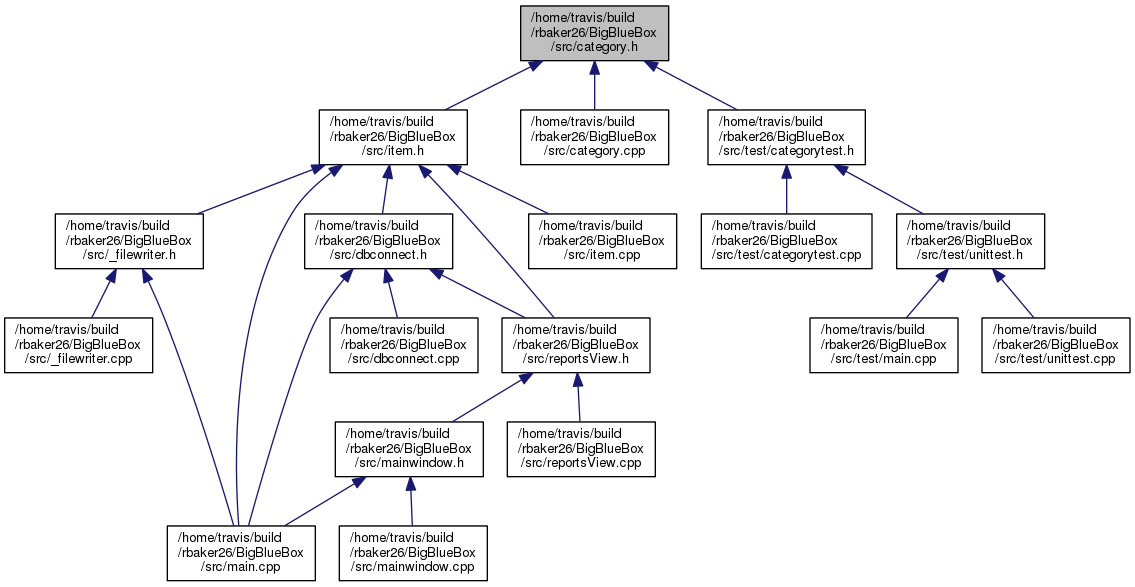
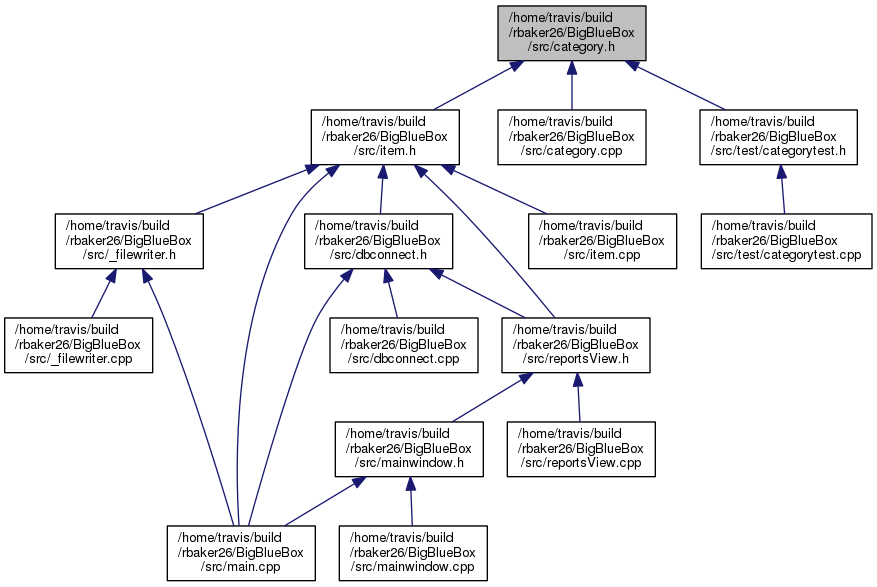
Deploy code docs to GitHub Pages Travis build: 153
Commit: c6dd132dcff6cf2a4d43fa147a59e868d3e412c9

diff --git a/html/unittest_8h_source.html b/html/unittest_8h_source.html
@@ -105,33 +105,31 @@ var searchBox = new SearchBox("searchBox", "search",false,'Search');
 <div class="line"><a name="l00014"></a><span class="lineno">   14</span>&#160;<span class="comment">//#include &quot;sqltest.h&quot;</span></div>
 <div class="line"><a name="l00015"></a><span class="lineno">   15</span>&#160;</div>
 <div class="line"><a name="l00016"></a><span class="lineno">   16</span>&#160;<span class="preprocessor">#include &quot;<a class="code" href="__regextest_8h.html">test/_regextest.h</a>&quot;</span></div>
-<div class="line"><a name="l00017"></a><span class="lineno">   17</span>&#160;<span class="preprocessor">#include &quot;<a class="code" href="categorytest_8h.html">test/categorytest.h</a>&quot;</span></div>
-<div class="line"><a name="l00018"></a><span class="lineno">   18</span>&#160;</div>
-<div class="line"><a name="l00019"></a><span class="lineno">   19</span>&#160;<span class="keyword">namespace </span>bbbTest {</div>
-<div class="line"><a name="l00020"></a><span class="lineno">   20</span>&#160;<span class="comment">/***********************************************************************************/</span></div>
-<div class="line"><a name="l00027"></a><span class="lineno">   27</span>&#160;<span class="comment">/***********************************************************************************/</span></div>
-<div class="line"><a name="l00028"></a><span class="lineno"><a class="line" href="classbbb_test_1_1_unit_test.html">   28</a></span>&#160;<span class="keyword">class </span><a class="code" href="classbbb_test_1_1_unit_test.html">UnitTest</a> : <span class="keyword">public</span> QObject</div>
-<div class="line"><a name="l00029"></a><span class="lineno">   29</span>&#160;{   Q_OBJECT</div>
-<div class="line"><a name="l00030"></a><span class="lineno">   30</span>&#160;<span class="keyword">public</span>:</div>
-<div class="line"><a name="l00031"></a><span class="lineno">   31</span>&#160;    <span class="comment">/***********************************************************************************/</span></div>
-<div class="line"><a name="l00034"></a><span class="lineno">   34</span>&#160;    <a class="code" href="classbbb_test_1_1_unit_test.html#a67ddaff817b55a624741d32550052f4b">UnitTest</a>();</div>
-<div class="line"><a name="l00035"></a><span class="lineno">   35</span>&#160;    <span class="comment">//***********************************************************************************/</span></div>
+<div class="line"><a name="l00017"></a><span class="lineno">   17</span>&#160;</div>
+<div class="line"><a name="l00018"></a><span class="lineno">   18</span>&#160;<span class="keyword">namespace </span>bbbTest {</div>
+<div class="line"><a name="l00019"></a><span class="lineno">   19</span>&#160;<span class="comment">/***********************************************************************************/</span></div>
+<div class="line"><a name="l00026"></a><span class="lineno">   26</span>&#160;<span class="comment">/***********************************************************************************/</span></div>
+<div class="line"><a name="l00027"></a><span class="lineno"><a class="line" href="classbbb_test_1_1_unit_test.html">   27</a></span>&#160;<span class="keyword">class </span><a class="code" href="classbbb_test_1_1_unit_test.html">UnitTest</a> : <span class="keyword">public</span> QObject</div>
+<div class="line"><a name="l00028"></a><span class="lineno">   28</span>&#160;{   Q_OBJECT</div>
+<div class="line"><a name="l00029"></a><span class="lineno">   29</span>&#160;<span class="keyword">public</span>:</div>
+<div class="line"><a name="l00030"></a><span class="lineno">   30</span>&#160;    <span class="comment">/***********************************************************************************/</span></div>
+<div class="line"><a name="l00033"></a><span class="lineno">   33</span>&#160;    <a class="code" href="classbbb_test_1_1_unit_test.html#a67ddaff817b55a624741d32550052f4b">UnitTest</a>();</div>
+<div class="line"><a name="l00034"></a><span class="lineno">   34</span>&#160;    <span class="comment">//***********************************************************************************/</span></div>
+<div class="line"><a name="l00035"></a><span class="lineno">   35</span>&#160;</div>
 <div class="line"><a name="l00036"></a><span class="lineno">   36</span>&#160;</div>
-<div class="line"><a name="l00037"></a><span class="lineno">   37</span>&#160;</div>
-<div class="line"><a name="l00038"></a><span class="lineno">   38</span>&#160;    <span class="comment">/***********************************************************************************/</span></div>
-<div class="line"><a name="l00042"></a><span class="lineno">   42</span>&#160;    <span class="keyword">static</span> <span class="keywordtype">void</span> <a class="code" href="classbbb_test_1_1_unit_test.html#ab007b0ca0f5cf3f165305e71d67b20c0">run</a>();</div>
-<div class="line"><a name="l00043"></a><span class="lineno">   43</span>&#160;    <span class="comment">/***********************************************************************************/</span></div>
-<div class="line"><a name="l00044"></a><span class="lineno">   44</span>&#160;</div>
-<div class="line"><a name="l00045"></a><span class="lineno">   45</span>&#160;}; <span class="comment">// end class</span></div>
-<div class="line"><a name="l00046"></a><span class="lineno">   46</span>&#160;<span class="comment">/***********************************************************************************/</span></div>
-<div class="line"><a name="l00047"></a><span class="lineno">   47</span>&#160;</div>
-<div class="line"><a name="l00048"></a><span class="lineno">   48</span>&#160;} <span class="comment">// end namespace</span></div>
-<div class="line"><a name="l00049"></a><span class="lineno">   49</span>&#160;<span class="preprocessor">#endif // UNITTEST_H</span></div>
-<div class="ttc" id="classbbb_test_1_1_unit_test_html"><div class="ttname"><a href="classbbb_test_1_1_unit_test.html">bbbTest::UnitTest</a></div><div class="ttdoc">Starts the regression an unit testing. </div><div class="ttdef"><b>Definition:</b> unittest.h:28</div></div>
+<div class="line"><a name="l00037"></a><span class="lineno">   37</span>&#160;    <span class="comment">/***********************************************************************************/</span></div>
+<div class="line"><a name="l00041"></a><span class="lineno">   41</span>&#160;    <span class="keyword">static</span> <span class="keywordtype">void</span> <a class="code" href="classbbb_test_1_1_unit_test.html#ab007b0ca0f5cf3f165305e71d67b20c0">run</a>();</div>
+<div class="line"><a name="l00042"></a><span class="lineno">   42</span>&#160;    <span class="comment">/***********************************************************************************/</span></div>
+<div class="line"><a name="l00043"></a><span class="lineno">   43</span>&#160;</div>
+<div class="line"><a name="l00044"></a><span class="lineno">   44</span>&#160;}; <span class="comment">// end class</span></div>
+<div class="line"><a name="l00045"></a><span class="lineno">   45</span>&#160;<span class="comment">/***********************************************************************************/</span></div>
+<div class="line"><a name="l00046"></a><span class="lineno">   46</span>&#160;</div>
+<div class="line"><a name="l00047"></a><span class="lineno">   47</span>&#160;} <span class="comment">// end namespace</span></div>
+<div class="line"><a name="l00048"></a><span class="lineno">   48</span>&#160;<span class="preprocessor">#endif // UNITTEST_H</span></div>
+<div class="ttc" id="classbbb_test_1_1_unit_test_html"><div class="ttname"><a href="classbbb_test_1_1_unit_test.html">bbbTest::UnitTest</a></div><div class="ttdoc">Starts the regression an unit testing. </div><div class="ttdef"><b>Definition:</b> unittest.h:27</div></div>
 <div class="ttc" id="classbbb_test_1_1_unit_test_html_a67ddaff817b55a624741d32550052f4b"><div class="ttname"><a href="classbbb_test_1_1_unit_test.html#a67ddaff817b55a624741d32550052f4b">bbbTest::UnitTest::UnitTest</a></div><div class="ttdeci">UnitTest()</div><div class="ttdoc">Constructor. </div><div class="ttdef"><b>Definition:</b> unittest.cpp:5</div></div>
 <div class="ttc" id="__regextest_8h_html"><div class="ttname"><a href="__regextest_8h.html">_regextest.h</a></div></div>
 <div class="ttc" id="classbbb_test_1_1_unit_test_html_ab007b0ca0f5cf3f165305e71d67b20c0"><div class="ttname"><a href="classbbb_test_1_1_unit_test.html#ab007b0ca0f5cf3f165305e71d67b20c0">bbbTest::UnitTest::run</a></div><div class="ttdeci">static void run()</div><div class="ttdoc">Static fx, calls all unit test objects and executes them. </div><div class="ttdef"><b>Definition:</b> unittest.cpp:7</div></div>
-<div class="ttc" id="categorytest_8h_html"><div class="ttname"><a href="categorytest_8h.html">categorytest.h</a></div></div>
 </div><!-- fragment --></div><!-- contents -->
 <!-- start footer part -->
 <hr class="footer"/><address class="footer"><small>

diff --git a/html/category_8h.html b/html/category_8h.html
@@ -106,7 +106,7 @@ This graph shows which files directly or indirectly include this file:</div>
 <div class="dyncontent">
 <div class="center"><img src="category_8h__dep__incl.png" border="0" usemap="#_2home_2travis_2build_2rbaker26_2_big_blue_box_2src_2category_8hdep" alt=""/></div>
 <map name="_2home_2travis_2build_2rbaker26_2_big_blue_box_2src_2category_8hdep" id="_2home_2travis_2build_2rbaker26_2_big_blue_box_2src_2category_8hdep">
-<area shape="rect" id="node2" href="item_8h.html" title="/home/travis/build\l/rbaker26/BigBlueBox\l/src/item.h" alt="" coords="319,109,467,165"/><area shape="rect" id="node13" href="category_8cpp.html" title="/home/travis/build\l/rbaker26/BigBlueBox\l/src/category.cpp" alt="" coords="521,109,668,165"/><area shape="rect" id="node14" href="categorytest_8h.html" title="/home/travis/build\l/rbaker26/BigBlueBox\l/src/test/categorytest.h" alt="" coords="708,109,865,165"/><area shape="rect" id="node3" href="__filewriter_8h.html" title="/home/travis/build\l/rbaker26/BigBlueBox\l/src/_filewriter.h" alt="" coords="55,213,203,269"/><area shape="rect" id="node5" href="main_8cpp.html" title="/home/travis/build\l/rbaker26/BigBlueBox\l/src/main.cpp" alt="" coords="167,525,315,581"/><area shape="rect" id="node6" href="dbconnect_8h.html" title="/home/travis/build\l/rbaker26/BigBlueBox\l/src/dbconnect.h" alt="" coords="305,213,452,269"/><area shape="rect" id="node8" href="reports_view_8h.html" title="/home/travis/build\l/rbaker26/BigBlueBox\l/src/reportsView.h" alt="" coords="502,317,649,373"/><area shape="rect" id="node12" href="item_8cpp.html" title="/home/travis/build\l/rbaker26/BigBlueBox\l/src/item.cpp" alt="" coords="529,213,676,269"/><area shape="rect" id="node4" href="__filewriter_8cpp.html" title="/home/travis/build\l/rbaker26/BigBlueBox\l/src/_filewriter.cpp" alt="" coords="5,317,152,373"/><area shape="rect" id="node7" href="dbconnect_8cpp.html" title="/home/travis/build\l/rbaker26/BigBlueBox\l/src/dbconnect.cpp" alt="" coords="330,317,477,373"/><area shape="rect" id="node9" href="mainwindow_8h.html" title="/home/travis/build\l/rbaker26/BigBlueBox\l/src/mainwindow.h" alt="" coords="335,421,483,477"/><area shape="rect" id="node11" href="reports_view_8cpp.html" title="/home/travis/build\l/rbaker26/BigBlueBox\l/src/reportsView.cpp" alt="" coords="507,421,655,477"/><area shape="rect" id="node10" href="mainwindow_8cpp.html" title="/home/travis/build\l/rbaker26/BigBlueBox\l/src/mainwindow.cpp" alt="" coords="339,525,487,581"/><area shape="rect" id="node15" href="categorytest_8cpp.html" title="/home/travis/build\l/rbaker26/BigBlueBox\l/src/test/categorytest.cpp" alt="" coords="701,213,872,269"/><area shape="rect" id="node16" href="unittest_8h.html" title="/home/travis/build\l/rbaker26/BigBlueBox\l/src/test/unittest.h" alt="" coords="897,213,1044,269"/><area shape="rect" id="node17" href="test_2main_8cpp.html" title="/home/travis/build\l/rbaker26/BigBlueBox\l/src/test/main.cpp" alt="" coords="810,317,957,373"/><area shape="rect" id="node18" href="unittest_8cpp.html" title="/home/travis/build\l/rbaker26/BigBlueBox\l/src/test/unittest.cpp" alt="" coords="982,317,1129,373"/></map>
+<area shape="rect" id="node2" href="item_8h.html" title="/home/travis/build\l/rbaker26/BigBlueBox\l/src/item.h" alt="" coords="311,109,459,165"/><area shape="rect" id="node13" href="category_8cpp.html" title="/home/travis/build\l/rbaker26/BigBlueBox\l/src/category.cpp" alt="" coords="498,109,645,165"/><area shape="rect" id="node14" href="categorytest_8h.html" title="/home/travis/build\l/rbaker26/BigBlueBox\l/src/test/categorytest.h" alt="" coords="700,109,857,165"/><area shape="rect" id="node3" href="__filewriter_8h.html" title="/home/travis/build\l/rbaker26/BigBlueBox\l/src/_filewriter.h" alt="" coords="55,213,203,269"/><area shape="rect" id="node5" href="main_8cpp.html" title="/home/travis/build\l/rbaker26/BigBlueBox\l/src/main.cpp" alt="" coords="167,525,315,581"/><area shape="rect" id="node6" href="dbconnect_8h.html" title="/home/travis/build\l/rbaker26/BigBlueBox\l/src/dbconnect.h" alt="" coords="305,213,452,269"/><area shape="rect" id="node8" href="reports_view_8h.html" title="/home/travis/build\l/rbaker26/BigBlueBox\l/src/reportsView.h" alt="" coords="502,317,649,373"/><area shape="rect" id="node12" href="item_8cpp.html" title="/home/travis/build\l/rbaker26/BigBlueBox\l/src/item.cpp" alt="" coords="529,213,676,269"/><area shape="rect" id="node4" href="__filewriter_8cpp.html" title="/home/travis/build\l/rbaker26/BigBlueBox\l/src/_filewriter.cpp" alt="" coords="5,317,152,373"/><area shape="rect" id="node7" href="dbconnect_8cpp.html" title="/home/travis/build\l/rbaker26/BigBlueBox\l/src/dbconnect.cpp" alt="" coords="330,317,477,373"/><area shape="rect" id="node9" href="mainwindow_8h.html" title="/home/travis/build\l/rbaker26/BigBlueBox\l/src/mainwindow.h" alt="" coords="335,421,483,477"/><area shape="rect" id="node11" href="reports_view_8cpp.html" title="/home/travis/build\l/rbaker26/BigBlueBox\l/src/reportsView.cpp" alt="" coords="507,421,655,477"/><area shape="rect" id="node10" href="mainwindow_8cpp.html" title="/home/travis/build\l/rbaker26/BigBlueBox\l/src/mainwindow.cpp" alt="" coords="339,525,487,581"/><area shape="rect" id="node15" href="categorytest_8cpp.html" title="/home/travis/build\l/rbaker26/BigBlueBox\l/src/test/categorytest.cpp" alt="" coords="701,213,872,269"/></map>
 </div>
 </div>
 <p><a href="category_8h_source.html">Go to the source code of this file.</a></p>

diff --git a/html/categorytest_8h_source.html b/html/categorytest_8h_source.html
@@ -127,7 +127,7 @@ var searchBox = new SearchBox("searchBox", "search",false,'Search');
 <div class="ttc" id="classbbb_test_1_1_category_test_html_a85e76fad3ded73c068e9f5f0e5666a92"><div class="ttname"><a href="classbbb_test_1_1_category_test.html#a85e76fad3ded73c068e9f5f0e5666a92">bbbTest::CategoryTest::CategoryTest</a></div><div class="ttdeci">CategoryTest()</div><div class="ttdoc">Default Constructor. </div><div class="ttdef"><b>Definition:</b> categorytest.cpp:5</div></div>
 <div class="ttc" id="classbbb_test_1_1_category_test_html"><div class="ttname"><a href="classbbb_test_1_1_category_test.html">bbbTest::CategoryTest</a></div><div class="ttdef"><b>Definition:</b> categorytest.h:12</div></div>
 <div class="ttc" id="classbbb_test_1_1_category_test_html_a3d00e8ff136a5e5cc92ab6fde7829113"><div class="ttname"><a href="classbbb_test_1_1_category_test.html#a3d00e8ff136a5e5cc92ab6fde7829113">bbbTest::CategoryTest::testTest</a></div><div class="ttdeci">void testTest()</div><div class="ttdoc">Makes sure QTest, .yml an travis.ci are working. </div><div class="ttdef"><b>Definition:</b> categorytest.cpp:12</div></div>
-<div class="ttc" id="classbbb_test_1_1_category_test_html_a6b8e930731c0cb0b55bad0aa70c2100b"><div class="ttname"><a href="classbbb_test_1_1_category_test.html#a6b8e930731c0cb0b55bad0aa70c2100b">bbbTest::CategoryTest::testCatEnumVals</a></div><div class="ttdeci">void testCatEnumVals()</div><div class="ttdoc">Tests the int values of the enums. </div><div class="ttdef"><b>Definition:</b> categorytest.cpp:27</div></div>
+<div class="ttc" id="classbbb_test_1_1_category_test_html_a6b8e930731c0cb0b55bad0aa70c2100b"><div class="ttname"><a href="classbbb_test_1_1_category_test.html#a6b8e930731c0cb0b55bad0aa70c2100b">bbbTest::CategoryTest::testCatEnumVals</a></div><div class="ttdeci">void testCatEnumVals()</div><div class="ttdoc">Tests the values of the enums. </div><div class="ttdef"><b>Definition:</b> categorytest.cpp:27</div></div>
 </div><!-- fragment --></div><!-- contents -->
 <!-- start footer part -->
 <hr class="footer"/><address class="footer"><small>

diff --git a/html/unittest_8h.html b/html/unittest_8h.html
@@ -96,13 +96,12 @@ var searchBox = new SearchBox("searchBox", "search",false,'Search');
 <code>#include &lt;QtTest&gt;</code><br/>
 <code>#include &lt;QString&gt;</code><br/>
 <code>#include &quot;<a class="el" href="__regextest_8h_source.html">test/_regextest.h</a>&quot;</code><br/>
-<code>#include &quot;<a class="el" href="categorytest_8h_source.html">test/categorytest.h</a>&quot;</code><br/>
 </div><div class="textblock"><div class="dynheader">
 Include dependency graph for unittest.h:</div>
 <div class="dyncontent">
 <div class="center"><img src="unittest_8h__incl.png" border="0" usemap="#_2home_2travis_2build_2rbaker26_2_big_blue_box_2src_2test_2unittest_8h" alt=""/></div>
 <map name="_2home_2travis_2build_2rbaker26_2_big_blue_box_2src_2test_2unittest_8h" id="_2home_2travis_2build_2rbaker26_2_big_blue_box_2src_2test_2unittest_8h">
-<area shape="rect" id="node5" href="__regextest_8h.html" title="test/_regextest.h" alt="" coords="89,109,209,136"/><area shape="rect" id="node8" href="categorytest_8h.html" title="test/categorytest.h" alt="" coords="335,109,464,136"/><area shape="rect" id="node6" href="__regex_8h.html" title="_regex.h" alt="" coords="40,184,112,211"/><area shape="rect" id="node9" href="category_8h.html" title="category.h" alt="" coords="420,184,501,211"/></map>
+<area shape="rect" id="node5" href="__regextest_8h.html" title="test/_regextest.h" alt="" coords="121,109,241,136"/><area shape="rect" id="node6" href="__regex_8h.html" title="_regex.h" alt="" coords="100,184,172,211"/></map>
 </div>
 </div><div class="textblock"><div class="dynheader">
 This graph shows which files directly or indirectly include this file:</div>

diff --git a/html/qrc__rec_8cpp.html b/html/qrc__rec_8cpp.html
@@ -308,14 +308,14 @@ Here is the caller graph for this function:</div>
 <div class="line">  0x0,0x6d,0x0,0x67,</div>
 <div class="line">    </div>
 <div class="line">  0x0,0xc,</div>
-<div class="line">  0x8,0xa1,0x26,0xa7,</div>
-<div class="line">  0x0,0x6e,</div>
-<div class="line">  0x0,0x79,0x0,0x6c,0x0,0x74,0x0,0x49,0x0,0x63,0x0,0x6f,0x0,0x6e,0x0,0x2e,0x0,0x70,0x0,0x6e,0x0,0x67,</div>
-<div class="line">    </div>
-<div class="line">  0x0,0xc,</div>
 <div class="line">  0x8,0xa1,0x20,0x87,</div>
 <div class="line">  0x0,0x6e,</div>
 <div class="line">  0x0,0x79,0x0,0x6c,0x0,0x74,0x0,0x49,0x0,0x63,0x0,0x6f,0x0,0x6e,0x0,0x2e,0x0,0x6a,0x0,0x70,0x0,0x67,</div>
+<div class="line">    </div>
+<div class="line">  0x0,0xc,</div>
+<div class="line">  0x8,0xa1,0x26,0xa7,</div>
+<div class="line">  0x0,0x6e,</div>
+<div class="line">  0x0,0x79,0x0,0x6c,0x0,0x74,0x0,0x49,0x0,0x63,0x0,0x6f,0x0,0x6e,0x0,0x2e,0x0,0x70,0x0,0x6e,0x0,0x67,</div>
 <div class="line">  </div>
 <div class="line">}</div>
 </div><!-- fragment -->
@@ -344,9 +344,9 @@ Here is the caller graph for this function:</div>
 <div class="line">  </div>
 <div class="line">  0x0,0x0,0x0,0x0,0x0,0x2,0x0,0x0,0x0,0x2,0x0,0x0,0x0,0x2,</div>
 <div class="line">  </div>
-<div class="line">  0x0,0x0,0x0,0x2a,0x0,0x0,0x0,0x0,0x0,0x1,0x0,0x7,0x20,0x51,</div>
-<div class="line">  </div>
 <div class="line">  0x0,0x0,0x0,0xc,0x0,0x0,0x0,0x0,0x0,0x1,0x0,0x0,0x0,0x0,</div>
+<div class="line">  </div>
+<div class="line">  0x0,0x0,0x0,0x2a,0x0,0x0,0x0,0x0,0x0,0x1,0x0,0x1,0x46,0x39,</div>
 <div class="line"></div>
 <div class="line">}</div>
 </div><!-- fragment -->

diff --git a/html/classbbb_test_1_1_category_test.html b/html/classbbb_test_1_1_category_test.html
@@ -124,7 +124,7 @@ Private Slots</h2></td></tr>
 <tr class="memdesc:a3d00e8ff136a5e5cc92ab6fde7829113"><td class="mdescLeft">&#160;</td><td class="mdescRight">Makes sure QTest, .yml an travis.ci are working.  <a href="#a3d00e8ff136a5e5cc92ab6fde7829113">More...</a><br/></td></tr>
 <tr class="separator:a3d00e8ff136a5e5cc92ab6fde7829113"><td class="memSeparator" colspan="2">&#160;</td></tr>
 <tr class="memitem:a6b8e930731c0cb0b55bad0aa70c2100b"><td class="memItemLeft" align="right" valign="top">void&#160;</td><td class="memItemRight" valign="bottom"><a class="el" href="classbbb_test_1_1_category_test.html#a6b8e930731c0cb0b55bad0aa70c2100b">testCatEnumVals</a> ()</td></tr>
-<tr class="memdesc:a6b8e930731c0cb0b55bad0aa70c2100b"><td class="mdescLeft">&#160;</td><td class="mdescRight">Tests the int values of the enums.  <a href="#a6b8e930731c0cb0b55bad0aa70c2100b">More...</a><br/></td></tr>
+<tr class="memdesc:a6b8e930731c0cb0b55bad0aa70c2100b"><td class="mdescLeft">&#160;</td><td class="mdescRight">Tests the values of the enums.  <a href="#a6b8e930731c0cb0b55bad0aa70c2100b">More...</a><br/></td></tr>
 <tr class="separator:a6b8e930731c0cb0b55bad0aa70c2100b"><td class="memSeparator" colspan="2">&#160;</td></tr>
 </table>
 <h2 class="groupheader">Constructor &amp; Destructor Documentation</h2>
@@ -168,7 +168,7 @@ Private Slots</h2></td></tr>
 </table>
 </div><div class="memdoc">
 
-<p>Tests the int values of the enums. </p>
+<p>Tests the values of the enums. </p>
 <dl class="section author"><dt>Author</dt><dd>Bob Baker </dd></dl>
 
 </div>

diff --git a/html/test_2main_8cpp.html b/html/test_2main_8cpp.html
@@ -97,7 +97,7 @@ Include dependency graph for main.cpp:</div>
 <div class="dyncontent">
 <div class="center"><img src="test_2main_8cpp__incl.png" border="0" usemap="#_2home_2travis_2build_2rbaker26_2_big_blue_box_2src_2test_2main_8cpp" alt=""/></div>
 <map name="_2home_2travis_2build_2rbaker26_2_big_blue_box_2src_2test_2main_8cpp" id="_2home_2travis_2build_2rbaker26_2_big_blue_box_2src_2test_2main_8cpp">
-<area shape="rect" id="node2" href="unittest_8h.html" title="test/unittest.h" alt="" coords="246,109,348,136"/><area shape="rect" id="node6" href="__regextest_8h.html" title="test/_regextest.h" alt="" coords="89,184,209,211"/><area shape="rect" id="node9" href="categorytest_8h.html" title="test/categorytest.h" alt="" coords="335,184,464,211"/><area shape="rect" id="node7" href="__regex_8h.html" title="_regex.h" alt="" coords="40,259,112,285"/><area shape="rect" id="node10" href="category_8h.html" title="category.h" alt="" coords="420,259,501,285"/></map>
+<area shape="rect" id="node2" href="unittest_8h.html" title="test/unittest.h" alt="" coords="178,109,280,136"/><area shape="rect" id="node6" href="__regextest_8h.html" title="test/_regextest.h" alt="" coords="121,184,241,211"/><area shape="rect" id="node7" href="__regex_8h.html" title="_regex.h" alt="" coords="100,259,172,285"/></map>
 </div>
 </div><table class="memberdecls">
 <tr class="heading"><td colspan="2"><h2 class="groupheader"><a name="func-members"></a>

diff --git a/html/categorytest_8h.html b/html/categorytest_8h.html
@@ -108,7 +108,7 @@ This graph shows which files directly or indirectly include this file:</div>
 <div class="dyncontent">
 <div class="center"><img src="categorytest_8h__dep__incl.png" border="0" usemap="#_2home_2travis_2build_2rbaker26_2_big_blue_box_2src_2test_2categorytest_8hdep" alt=""/></div>
 <map name="_2home_2travis_2build_2rbaker26_2_big_blue_box_2src_2test_2categorytest_8hdep" id="_2home_2travis_2build_2rbaker26_2_big_blue_box_2src_2test_2categorytest_8hdep">
-<area shape="rect" id="node2" href="categorytest_8cpp.html" title="/home/travis/build\l/rbaker26/BigBlueBox\l/src/test/categorytest.cpp" alt="" coords="5,109,176,165"/><area shape="rect" id="node3" href="unittest_8h.html" title="/home/travis/build\l/rbaker26/BigBlueBox\l/src/test/unittest.h" alt="" coords="201,109,348,165"/><area shape="rect" id="node4" href="test_2main_8cpp.html" title="/home/travis/build\l/rbaker26/BigBlueBox\l/src/test/main.cpp" alt="" coords="114,213,261,269"/><area shape="rect" id="node5" href="unittest_8cpp.html" title="/home/travis/build\l/rbaker26/BigBlueBox\l/src/test/unittest.cpp" alt="" coords="286,213,433,269"/></map>
+<area shape="rect" id="node2" href="categorytest_8cpp.html" title="/home/travis/build\l/rbaker26/BigBlueBox\l/src/test/categorytest.cpp" alt="" coords="5,109,176,165"/></map>
 </div>
 </div>
 <p><a href="categorytest_8h_source.html">Go to the source code of this file.</a></p>

diff --git a/html/unittest_8cpp.html b/html/unittest_8cpp.html
@@ -95,7 +95,7 @@ Include dependency graph for unittest.cpp:</div>
 <div class="dyncontent">
 <div class="center"><img src="unittest_8cpp__incl.png" border="0" usemap="#_2home_2travis_2build_2rbaker26_2_big_blue_box_2src_2test_2unittest_8cpp" alt=""/></div>
 <map name="_2home_2travis_2build_2rbaker26_2_big_blue_box_2src_2test_2unittest_8cpp" id="_2home_2travis_2build_2rbaker26_2_big_blue_box_2src_2test_2unittest_8cpp">
-<area shape="rect" id="node2" href="unittest_8h.html" title="test/unittest.h" alt="" coords="246,109,348,136"/><area shape="rect" id="node6" href="__regextest_8h.html" title="test/_regextest.h" alt="" coords="89,184,209,211"/><area shape="rect" id="node9" href="categorytest_8h.html" title="test/categorytest.h" alt="" coords="335,184,464,211"/><area shape="rect" id="node7" href="__regex_8h.html" title="_regex.h" alt="" coords="40,259,112,285"/><area shape="rect" id="node10" href="category_8h.html" title="category.h" alt="" coords="420,259,501,285"/></map>
+<area shape="rect" id="node2" href="unittest_8h.html" title="test/unittest.h" alt="" coords="178,109,280,136"/><area shape="rect" id="node6" href="__regextest_8h.html" title="test/_regextest.h" alt="" coords="121,184,241,211"/><area shape="rect" id="node7" href="__regex_8h.html" title="_regex.h" alt="" coords="100,259,172,285"/></map>
 </div>
 </div></div><!-- contents -->
 <!-- start footer part -->
